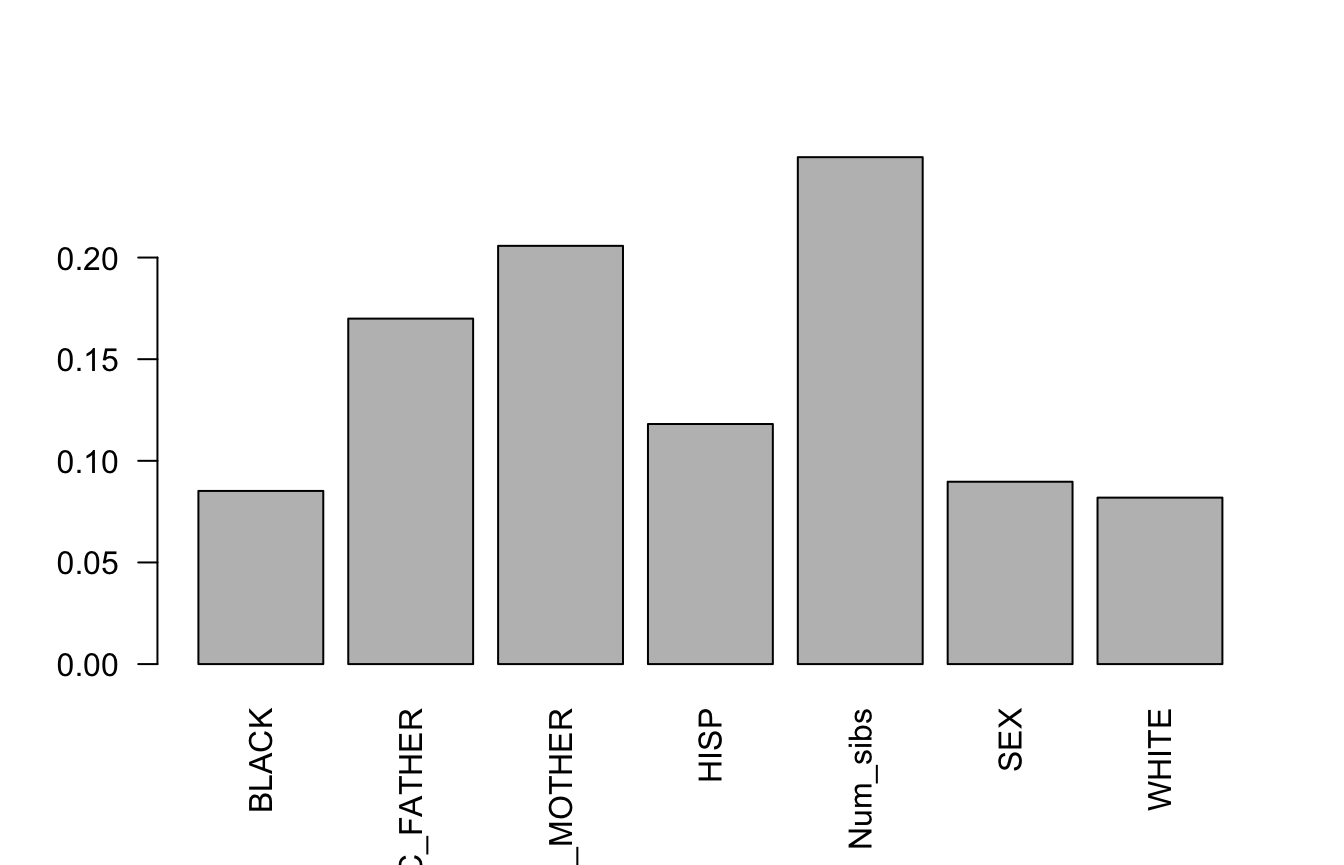
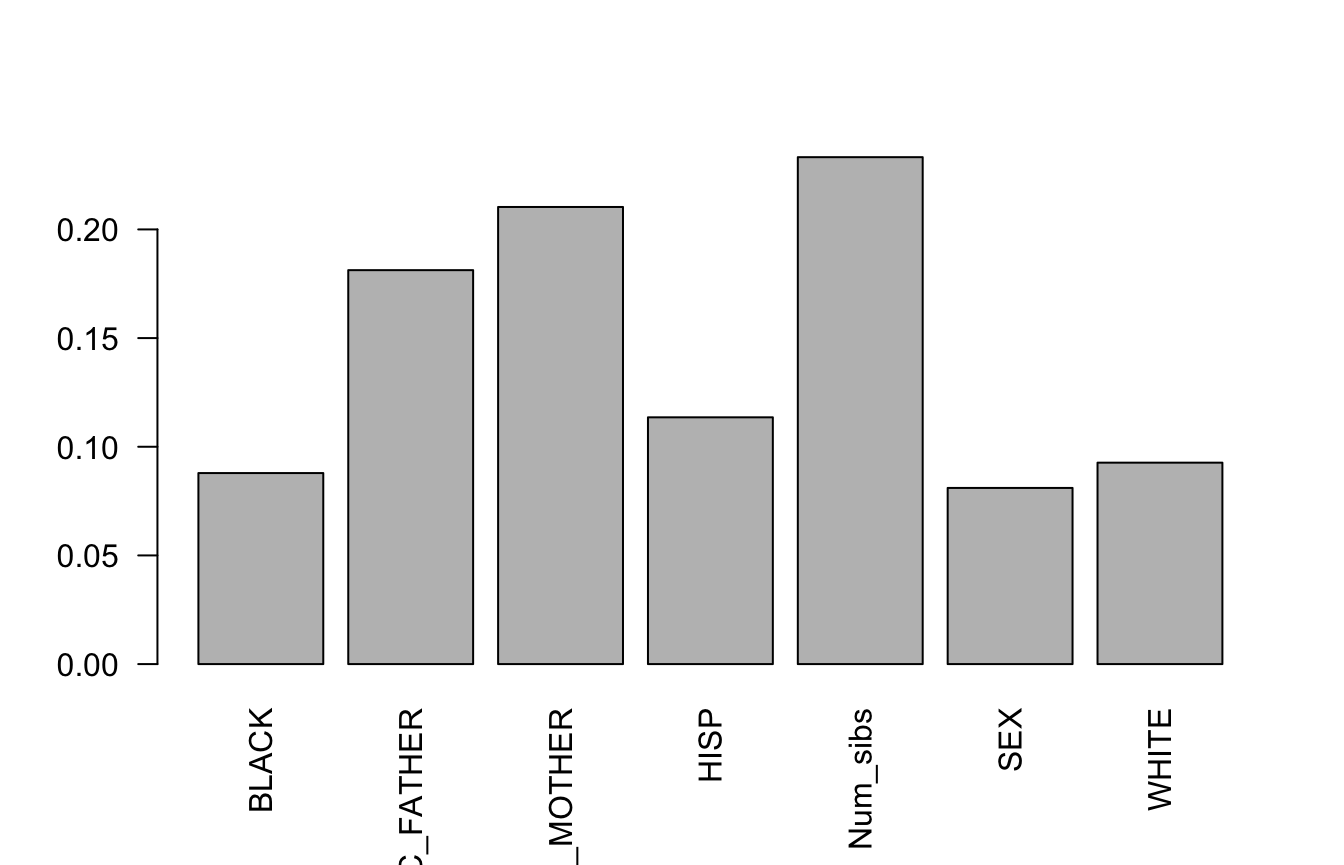
Small changes to documentation

diff --git a/docs/articles/Forest-Intro.html b/docs/articles/Forest-Intro.html
@@ -152,35 +152,29 @@ preds &lt;-<span class="st"> </span>basisMatrix %*%<span class="st"> </span>mean
 ## node), split, n , coefficients 
 ##       * denotes terminal node
 ## 
-##   1) root, 1000,  (21.60936,  5.115368,  8.337314) 
-##     2) WHITE&lt; 0.5, 519,  (21.45522,  6.147527,  9.303323) 
-##       4) Num_sibs&lt; 5.5, 357,  (21.48675,  5.699979,  9.299943) 
-##         8) HGC_FATHER&lt; 11.5, 149,  (21.73232,  6.300946,  9.540697) 
-##          16) Num_sibs&lt; 3.5, 81,  (22.05022,  7.239676, 10.688970) 
-##            32) HISP&lt; 0.5, 44,  (21.92577,  8.384146, 12.626190) 
-##              64) Num_sibs&lt; 1.5, 18,  (20.68888,  5.907230,  8.830958)*
-##              65) Num_sibs&gt;=1.5, 26,  (22.78207, 10.098930, 15.253660) 
-##               130) Num_sibs&lt; 2.5, 13,  (22.84959, 13.212580, 16.497700)*
-##               131) Num_sibs&gt;=2.5, 13,  (22.71456,  6.985288, 14.009610)*
-##            33) HISP&gt;=0.5, 37,  (22.19821,  5.878685,  8.385259)*
-##          17) Num_sibs&gt;=3.5, 68,  (21.35364,  5.182753,  8.172897)*
-##         9) HGC_FATHER&gt;=11.5, 208,  (21.31084,  5.269479,  9.127479)*
-##       5) Num_sibs&gt;=5.5, 162,  (21.38575,  7.133789,  9.310772) 
-##        10) HGC_MOTHER&lt; 0.5, 13,  (21.90055, 13.428490, 13.628840)*
-##        11) HGC_MOTHER&gt;=0.5, 149,  (21.34084,  6.584587,  8.934028) 
-##          22) SEX&lt; 1.5, 84,  (20.62718,  6.219966,  7.666228)*
-##          23) SEX&gt;=1.5, 65,  (22.26310,  7.055790, 10.572410) 
-##            46) HGC_MOTHER&lt; 11.5, 55,  (22.46468,  7.955327, 11.186020)*
-##            47) HGC_MOTHER&gt;=11.5, 10,  (21.15440,  2.108339,  7.197565)*
-##     3) WHITE&gt;=0.5, 481,  (21.77567,  4.001667,  7.294989) 
-##       6) SEX&lt; 1.5, 248,  (22.94181,  4.224728,  7.096100) 
-##        12) HGC_FATHER&lt; 4.5, 7,  (29.73576,  5.508504,  7.355425)*
-##        13) HGC_FATHER&gt;=4.5, 241,  (22.74448,  4.187440,  7.088567)*
-##       7) SEX&gt;=1.5, 233,  (20.53445,  3.764246,  7.506683) 
-##        14) HGC_FATHER&lt; 8.5, 39,  (20.79033,  5.824313,  8.712418)*
-##        15) HGC_FATHER&gt;=8.5, 194,  (20.48301,  3.350109,  7.264293) 
-##          30) Num_sibs&lt; 5.5, 173,  (20.30595,  3.157936,  6.776692)*
-##          31) Num_sibs&gt;=5.5, 21,  (21.94164,  4.933247, 11.281190)*</code></pre></div>
+##   1) root, 1000,  (21.72044,  4.921239,  7.778585) 
+##     2) Num_sibs&lt; 0.5, 32,  (24.25426,  5.075332,  5.877353)*
+##     3) Num_sibs&gt;=0.5, 968,  (21.63667,  4.916145,  7.841436) 
+##       6) HGC_MOTHER&lt; 10.5, 336,  (21.65032,  6.001674,  8.069025) 
+##        12) HGC_MOTHER&lt; 0.5, 20,  (23.36201,  7.204194, 12.337570)*
+##        13) HGC_MOTHER&gt;=0.5, 316,  (21.54199,  5.925565,  7.798864) 
+##          26) BLACK&lt; 0.5, 216,  (21.68008,  5.079462,  7.382679)*
+##          27) BLACK&gt;=0.5, 100,  (21.24372,  7.753149,  8.697824) 
+##            54) Num_sibs&lt; 2.5, 18,  (20.76172, 13.208060, 12.221360)*
+##            55) Num_sibs&gt;=2.5, 82,  (21.34952,  6.555728,  7.924366)*
+##       7) HGC_MOTHER&gt;=10.5, 632,  (21.62941,  4.339029,  7.720439) 
+##        14) BLACK&lt; 0.5, 467,  (21.72656,  3.898407,  7.080160) 
+##          28) Num_sibs&lt; 5.5, 413,  (21.59877,  3.722543,  6.932977) 
+##            56) SEX&lt; 1.5, 206,  (22.55904,  3.909956,  7.000419)*
+##            57) SEX&gt;=1.5, 207,  (20.64315,  3.536035,  6.865860) 
+##             114) HGC_MOTHER&lt; 11.5, 26,  (19.90763,  6.938583, 10.767110)*
+##             115) HGC_MOTHER&gt;=11.5, 181,  (20.74880,  3.047271,  6.305459)*
+##          29) Num_sibs&gt;=5.5, 54,  (22.70393,  5.243445,  8.205838) 
+##            58) HGC_MOTHER&lt; 12.5, 46,  (23.11512,  5.701495,  8.540350)*
+##            59) HGC_MOTHER&gt;=12.5, 8,  (20.33962,  2.609659,  6.282400)*
+##        15) BLACK&gt;=0.5, 165,  (21.35445,  5.586120,  9.532622) 
+##          30) HGC_FATHER&lt; 15, 157,  (21.39982,  5.267496,  9.166225)*
+##          31) HGC_FATHER&gt;=15, 8,  (20.46403, 11.839110, 16.723160)*</code></pre></div>
 <p>Although we can print any tree in the forest using <code><a href="../reference/stPrint.html">stPrint()</a></code>, it is important to note that these trees are not identical to <code>splineTree</code> objects. These <code>rpart</code> trees do not store all of the extra information that is stored in a typical <code>splinetree</code> object. For example, we can note the difference between a single tree and <code>forest$Trees[[17]]</code>.</p>
 <div class="sourceCode"><pre class="sourceCode r"><code class="sourceCode r">sample_tree &lt;-<span class="st"> </span><span class="kw"><a href="../reference/splineTree.html">splineTree</a></span>(split_formula, tformula, <span class="dt">idvar=</span><span class="st">"ID"</span>, 
                           <span class="dt">data=</span>nlsySample, <span class="dt">degree=</span><span class="dv">1</span>, <span class="dt">df=</span><span class="dv">2</span>, <span class="dt">intercept=</span><span class="ot">TRUE</span>, <span class="dt">cp=</span><span class="fl">0.005</span>)
@@ -208,9 +202,9 @@ oob17 &lt;-<span class="st"> </span>forest$flat_data[forest$oob_indices[[<span c
 <p><img src="Forest-Intro_files/figure-html/unnamed-chunk-9-1.png" width="672"></p>
 <p>The bias in splits towards variables with more unique values is exacerbated in forests where each tree is very large; in forests such as these, numeric variables with many unique values will be repeatedly used for successive splits while binary variables are limited. It is sometimes useful to check the size of the average tree in the forest and, if necessary, prune each tree in the forest to reduce the average size.</p>
 <div class="sourceCode"><pre class="sourceCode r"><code class="sourceCode r"><span class="kw"><a href="../reference/avSize.html">avSize</a></span>(forest)
-## [1] 13.3
+## [1] 15.84
 <span class="kw"><a href="../reference/avSize.html">avSize</a></span>(<span class="kw"><a href="../reference/pruneForest.html">pruneForest</a></span>(forest, <span class="dt">cp=</span><span class="fl">0.01</span>))
-## [1] 5.64</code></pre></div>
+## [1] 6.62</code></pre></div>
 </div>
 <div id="making-predictions-with-a-forest" class="section level1">
 <h1 class="hasAnchor">
@@ -225,11 +219,11 @@ predictions &lt;-<span class="st"> </span><span class="kw"><a href="../reference
 <p><img src="Forest-Intro_files/figure-html/unnamed-chunk-12-1.png" width="672"></p>
 <p>When predicting coefficients or responses for a datapoint that was in the training set, we have the option to use one of three different methods, specified by the “methods” parameter in <code>predictYForest</code> and <code>predictCoeffsForest</code>. For a given datapoint, we can either average its prediction over all trees in the forest (<code>method = "all"</code>), over only trees in the forest for which this datapoint was not in the bootstrap sample (<code>method="oob"</code>), or over only trees in the forest for which this datapoint was in the bootstrap sample (<code>method="itb"</code>). The <code>oob</code> method is preferred, as it gives a sense of out-of-sample performance and avoids overfitting the training data. We can compare response predictions for the tree methods in terms of how closely they match the actual responses. As expected, the <code>itb</code> predictions match the actual values much more closely.</p>
 <div class="sourceCode"><pre class="sourceCode r"><code class="sourceCode r"><span class="kw">cor</span>(nlsySample$BMI, <span class="kw"><a href="../reference/predictYForest.html">predictYForest</a></span>(forest, <span class="dt">method=</span><span class="st">"oob"</span>))
-## [1] 0.40119
+## [1] 0.3976018
 <span class="kw">cor</span>(nlsySample$BMI, <span class="kw"><a href="../reference/predictYForest.html">predictYForest</a></span>(forest, <span class="dt">method=</span><span class="st">"all"</span>))
-## [1] 0.4797273
+## [1] 0.4926619
 <span class="kw">cor</span>(nlsySample$BMI, <span class="kw"><a href="../reference/predictYForest.html">predictYForest</a></span>(forest, <span class="dt">method=</span><span class="st">"itb"</span>))
-## [1] 0.5198</code></pre></div>
+## [1] 0.5419636</code></pre></div>
 </div>
 <div id="evaluating-a-forest" class="section level1">
 <h1 class="hasAnchor">
@@ -238,31 +232,31 @@ predictions &lt;-<span class="st"> </span><span class="kw"><a href="../reference
 <p>Apart from the response vs. projected response choice, we can also measure forest performance using <code>out-of-the-bag</code>, <code>in-the-bag</code>, or all tree predictions. Out of the bag performance metrics are often preferred because they provide a more realistic assesment of how the tree will perform out of sample. Combining these different dimensions of choice, there are 9 different ways that we could evaluate the performance of one single forest with an intercept! We can compare the 9 metrics.</p>
 <p>The response-based <span class="math inline">\(R^2\)</span> measure is the most straightforward. Unsuprisingly, performance is worst using <code>oob</code> predictions and best using <code>itb</code> predictions.</p>
 <div class="sourceCode"><pre class="sourceCode r"><code class="sourceCode r"><span class="kw"><a href="../reference/yR2Forest.html">yR2Forest</a></span>(forest, <span class="dt">method=</span><span class="st">"oob"</span>)
-## [1] 0.1605657
+## [1] 0.1570572
 <span class="kw"><a href="../reference/yR2Forest.html">yR2Forest</a></span>(forest, <span class="dt">method=</span><span class="st">"all"</span>)
-## [1] 0.2264439
+## [1] 0.2386217
 <span class="kw"><a href="../reference/yR2Forest.html">yR2Forest</a></span>(forest, <span class="dt">method=</span><span class="st">"itb"</span>)
-## [1] 0.2607569</code></pre></div>
+## [1] 0.2821948</code></pre></div>
 <p>The projection based <span class="math inline">\(R^2\)</span> metrics follow the same pattern of <code>oob</code> measures performing the worst, but overall performance is much lower because the forest no longer gets credit for explaining variation that could be explained with the population average BMI vs. AGE trajectory.</p>
 <div class="sourceCode"><pre class="sourceCode r"><code class="sourceCode r"><span class="kw"><a href="../reference/projectedR2Forest.html">projectedR2Forest</a></span>(forest, <span class="dt">method=</span><span class="st">"oob"</span>, <span class="dt">removeIntercept =</span> <span class="ot">FALSE</span>)
-##           [,1]
-## [1,] 0.0450382
+##            [,1]
+## [1,] 0.04009352
 <span class="kw"><a href="../reference/projectedR2Forest.html">projectedR2Forest</a></span>(forest, <span class="dt">method=</span><span class="st">"all"</span>, <span class="dt">removeIntercept =</span> <span class="ot">FALSE</span>)
 ##           [,1]
-## [1,] 0.1296753
+## [1,] 0.1455061
 <span class="kw"><a href="../reference/projectedR2Forest.html">projectedR2Forest</a></span>(forest, <span class="dt">method=</span><span class="st">"itb"</span>, <span class="dt">removeIntercept =</span> <span class="ot">FALSE</span>)
 ##           [,1]
-## [1,] 0.1737627</code></pre></div>
+## [1,] 0.2020932</code></pre></div>
 <p>Finally, when we exclude the intercept, the same patterns hold but we see that even less total variation is explained by our model with we do not give the model credit for explaining variation in starting level. These metrics suggest that, moving out of sample, we will only be able to explain aroudn 3% of variation in shape of BMI trajectory.</p>
 <div class="sourceCode"><pre class="sourceCode r"><code class="sourceCode r"><span class="kw"><a href="../reference/projectedR2Forest.html">projectedR2Forest</a></span>(forest, <span class="dt">method=</span><span class="st">"oob"</span>, <span class="dt">removeIntercept =</span> <span class="ot">TRUE</span>)
 ##            [,1]
-## [1,] 0.02944735
+## [1,] 0.02948244
 <span class="kw"><a href="../reference/projectedR2Forest.html">projectedR2Forest</a></span>(forest, <span class="dt">method=</span><span class="st">"all"</span>, <span class="dt">removeIntercept =</span> <span class="ot">TRUE</span>)
-##            [,1]
-## [1,] 0.08809932
+##           [,1]
+## [1,] 0.1002789
 <span class="kw"><a href="../reference/projectedR2Forest.html">projectedR2Forest</a></span>(forest, <span class="dt">method=</span><span class="st">"itb"</span>, <span class="dt">removeIntercept =</span> <span class="ot">TRUE</span>)
-##          [,1]
-## [1,] 0.118361</code></pre></div>
+##         [,1]
+## [1,] 0.13765</code></pre></div>
 </div>
 <div id="variable-importance" class="section level1">
 <h1 class="hasAnchor">

diff --git a/docs/articles/Long-Intro.html b/docs/articles/Long-Intro.html
@@ -205,43 +205,27 @@ imp_small=sample_tree_intercept$variable.importance</code></pre></div>
 ## node), split, n , coefficients 
 ##       * denotes terminal node
 ## 
-##   1) root, 1000,  (21.66164,  4.733538,  7.850762) 
-##     2) HGC_MOTHER&lt; 13.5, 888,  (21.77405,  4.832781,  7.946380) 
-##       4) WHITE&lt; 0.5, 461,  (21.78506,  5.739344,  8.551900) 
-##         8) BLACK&lt; 0.5, 215,  (22.14779,  5.775665,  7.696626) 
-##          16) HGC_FATHER&lt; 0.5, 29,  (23.51799,  8.207481,  7.727444) 
-##            32) Num_sibs&lt; 8.5, 17,  (22.35528,  6.162965,  8.160098)*
-##            33) Num_sibs&gt;=8.5, 12,  (25.16515, 11.103880,  7.114518)*
-##          17) HGC_FATHER&gt;=0.5, 186,  (21.93415,  5.396511,  7.691821) 
-##            34) Num_sibs&lt; 1.5, 17,  (20.36543,  3.951858,  6.741755)*
-##            35) Num_sibs&gt;=1.5, 169,  (22.09195,  5.541831,  7.787390)*
-##         9) BLACK&gt;=0.5, 246,  (21.46804,  5.707599,  9.299396) 
-##          18) HGC_FATHER&lt; 8.5, 81,  (22.20620,  5.422305,  8.992975) 
-##            36) SEX&lt; 1.5, 30,  (22.14226,  6.155149,  8.514429)*
-##            37) SEX&gt;=1.5, 51,  (22.24382,  4.991220,  9.274473) 
-##              74) HGC_FATHER&lt; 3.5, 8,  (25.49184,  5.620926,  8.229193)*
-##              75) HGC_FATHER&gt;=3.5, 43,  (21.63953,  4.874065,  9.468943) 
-##               150) HGC_MOTHER&lt; 10.5, 24,  (23.29107,  6.300949, 10.688430)*
-##               151) HGC_MOTHER&gt;=10.5, 19,  (19.55338,  3.071685,  7.928540)*
-##          19) HGC_FATHER&gt;=8.5, 165,  (21.10566,  5.847653,  9.449820)*
-##       5) WHITE&gt;=0.5, 427,  (21.76218,  3.854034,  7.292645) 
-##        10) SEX&lt; 1.5, 235,  (22.64700,  3.879037,  6.876473)*
-##        11) SEX&gt;=1.5, 192,  (20.67919,  3.823431,  7.802023) 
-##          22) HGC_MOTHER&lt; 12.5, 185,  (20.51407,  3.827933,  7.903937) 
-##            44) Num_sibs&lt; 6.5, 164,  (20.50250,  4.153198,  8.101993) 
-##              88) Num_sibs&lt; 5.5, 154,  (20.35468,  4.041766,  7.973344) 
-##               176) Num_sibs&lt; 2.5, 77,  (20.95606,  4.251502,  8.311577) 
-##                 352) HGC_MOTHER&lt; 11.5, 21,  (20.77366,  7.509657, 10.805900)*
-##                 353) HGC_MOTHER&gt;=11.5, 56,  (21.02445,  3.029694,  7.376204)*
-##               177) Num_sibs&gt;=2.5, 77,  (19.75330,  3.832030,  7.635111)*
-##              89) Num_sibs&gt;=5.5, 10,  (22.77890,  5.869246, 10.083180)*
-##            45) Num_sibs&gt;=6.5, 21,  (20.60442,  1.287773,  6.357220)*
-##          23) HGC_MOTHER&gt;=12.5, 7,  (25.04302,  3.704436,  5.108573)*
-##     3) HGC_MOTHER&gt;=13.5, 112,  (20.77034,  3.946683,  7.092645) 
-##       6) BLACK&lt; 0.5, 94,  (20.59310,  3.495421,  6.283178) 
-##        12) Num_sibs&lt; 3.5, 59,  (21.35909,  3.827548,  7.232385)*
-##        13) Num_sibs&gt;=3.5, 35,  (19.30187,  2.935550,  4.683087)*
-##       7) BLACK&gt;=0.5, 18,  (21.69592,  6.303271, 11.319860)*</code></pre></div>
+##  1) root, 1000,  (21.60587,  5.108484,  7.967029) 
+##    2) WHITE&lt; 0.5, 527,  (21.50844,  6.081302,  8.655012) 
+##      4) HISP&lt; 0.5, 307,  (21.79946,  6.218320,  9.051816) 
+##        8) HGC_MOTHER&lt; 9.5, 89,  (21.98009,  7.654371,  9.227016) 
+##         16) HGC_FATHER&lt; 8.5, 64,  (21.55621,  9.400976,  9.995696)*
+##         17) HGC_FATHER&gt;=8.5, 25,  (23.06524,  3.183061,  7.259194)*
+##        9) HGC_MOTHER&gt;=9.5, 218,  (21.72571,  5.632043,  8.980289)*
+##      5) HISP&gt;=0.5, 220,  (21.10235,  5.890100,  8.101290) 
+##       10) HGC_FATHER&lt; 1.5, 27,  (21.23242,  8.007794, 10.322020)*
+##       11) HGC_FATHER&gt;=1.5, 193,  (21.08415,  5.593842,  7.790618) 
+##         22) HGC_MOTHER&lt; 0.5, 7,  (19.33523, 15.353770, 17.407080)*
+##         23) HGC_MOTHER&gt;=0.5, 186,  (21.14997,  5.226533,  7.428708)*
+##    3) WHITE&gt;=0.5, 473,  (21.71443,  4.024605,  7.200502) 
+##      6) SEX&lt; 1.5, 267,  (22.62195,  4.018330,  6.820542) 
+##       12) HGC_MOTHER&lt; 15.5, 234,  (22.85359,  3.977085,  6.670560) 
+##         24) Num_sibs&lt; 8.5, 226,  (22.92925,  4.067137,  6.842788)*
+##         25) Num_sibs&gt;=8.5, 8,  (20.71606,  1.433103,  1.805126)*
+##       13) HGC_MOTHER&gt;=15.5, 33,  (20.97941,  4.310796,  7.884048) 
+##         26) HGC_FATHER&lt; 13.5, 12,  (18.59375,  4.061108,  4.892485)*
+##         27) HGC_FATHER&gt;=13.5, 21,  (22.34264,  4.453475,  9.593512)*
+##      7) SEX&gt;=1.5, 206,  (20.53818,  4.032737,  7.692974)*</code></pre></div>
 <p>While each tree within <code>forest$Trees</code> is an <code>rpart</code> object that can be printed with <code>stPrint</code>, these trees are not the same as <code>splinetree</code> objects. A single <code>splinetree</code> tree stores information about the spline basis used and the flattened dataset within it. For the sake of eliminating redundancy in already large <code>splineforest</code> objects, this information is not stored in every tree in a forest; it is only saved once at the forest level (see, for example, <code>forest$innerKnots</code> and <code>forest$flat_data</code>). Many <code>splinetree</code> functions, including <code><a href="../reference/stPlot.html">stPlot()</a></code>, expect this additional information to be stored at the tree level, and therefore <code><a href="../reference/stPlot.html">stPlot(forest$Trees[[1]])</a></code> will result in an error.</p>
 <p>To determine which data points were used in the making of the first tree in the forest, we can use <code>forest$index[[1]]</code>. The indices found in this vector refer to rows of <code>forest$flat_data</code>. It is important to know which data points were used in the making of each tree because this can determine the predictions from the forest. In obtaining predicted responses for a datapoint that was in the training sample, we can average the predictions from each individual tree in the dataset, or we can only average predictions across trees in the forest for which this datapoint was “out-of-the-bag,” meaning that it was not in the boostrap sample. “Out-of-the-bag”" (or “oob”) predictions are suggested by <span class="citation">Breiman (2001)</span> because they provide a sense of out-of-sample performance of the forest without using a distinct test set. In the <code>splinetree</code> package, we can predict BMIs for each individual in the NLSY sample either using “all” trees for each datapoint, only trees for which this datapoint was “out of the bag,” or only trees for which this datapoint was “in the bag” (or “itb”).</p>
 <div class="sourceCode"><pre class="sourceCode r"><code class="sourceCode r">fullpreds &lt;-<span class="st"> </span><span class="kw"><a href="../reference/predictYForest.html">predictYForest</a></span>(forest, <span class="dt">method =</span> <span class="st">"all"</span>)
@@ -249,11 +233,11 @@ oobpreds &lt;-<span class="st"> </span><span class="kw"><a href="../reference/pr
 itbpreds &lt;-<span class="st"> </span><span class="kw"><a href="../reference/predictYForest.html">predictYForest</a></span>(forest, <span class="dt">method =</span> <span class="st">"itb"</span>)</code></pre></div>
 <p>If we look at these predictions, we see that the “oob” prediction errors are greater, but this lower performance is more representative of how our forest might perform on a new test set.</p>
 <div class="sourceCode"><pre class="sourceCode r"><code class="sourceCode r"><span class="kw">cor</span>(fullpreds, nlsySample$BMI)
-## [1] 0.4841547
+## [1] 0.4840187
 <span class="kw">cor</span>(itbpreds, nlsySample$BMI)
-## [1] 0.530471
+## [1] 0.5272533
 <span class="kw">cor</span>(oobpreds, nlsySample$BMI)
-## [1] 0.3933592</code></pre></div>
+## [1] 0.3986283</code></pre></div>
 </div>
 <div id="variable-importance" class="section level2">
 <h2 class="hasAnchor">

diff --git a/docs/index.html b/docs/index.html
@@ -96,7 +96,10 @@ devtools::<span class="kw">install_github</span>(<span class="st">"anna-neufeld/
 <div id="usage" class="section level2">
 <h2 class="hasAnchor">
 <a href="#usage" class="anchor"></a>Usage</h2>
-<p>For detailed information on using this package, see the package vignettes, which are available at <a href="https://anna-neufeld.github.io/splinetree/reference/index.html" class="uri">https://anna-neufeld.github.io/splinetree/reference/index.html</a>.</p>
+<p>Detailed information on using this package can be found in the package vignettes. The package vignettes can be accessed with:</p>
+<div class="sourceCode"><pre class="sourceCode r"><code class="sourceCode r">devtools::<span class="kw">install_github</span>(<span class="st">"anna-neufeld/splinetree"</span>, <span class="dt">build_vignettes=</span><span class="ot">TRUE</span>)
+<span class="kw">browseVignettes</span>(<span class="dt">package=</span><span class="st">'splinetree'</span>)</code></pre></div>
+<p>The vignettes are also available on the package website, <a href="https://anna-neufeld.github.io/splinetree/reference/index.html" class="uri">https://anna-neufeld.github.io/splinetree/reference/index.html</a>.</p>
 </div>
 <div id="example-tree" class="section level2">
 <h2 class="hasAnchor">

diff --git a/README.md b/README.md
@@ -18,7 +18,13 @@ devtools::install_github("anna-neufeld/splinetree")
 Usage
 ------------
 
-For detailed information on using this package, see the package vignettes, which are available at https://anna-neufeld.github.io/splinetree/reference/index.html. 
+Detailed information on using this package can be found in the package vignettes. The package vignettes can be accessed with:
+``` r
+devtools::install_github("anna-neufeld/splinetree", build_vignettes=TRUE)
+browseVignettes(package='splinetree')
+```
+The vignettes are also available on the package website,
+https://anna-neufeld.github.io/splinetree/reference/index.html. 
 
 Example Tree
 ------------
